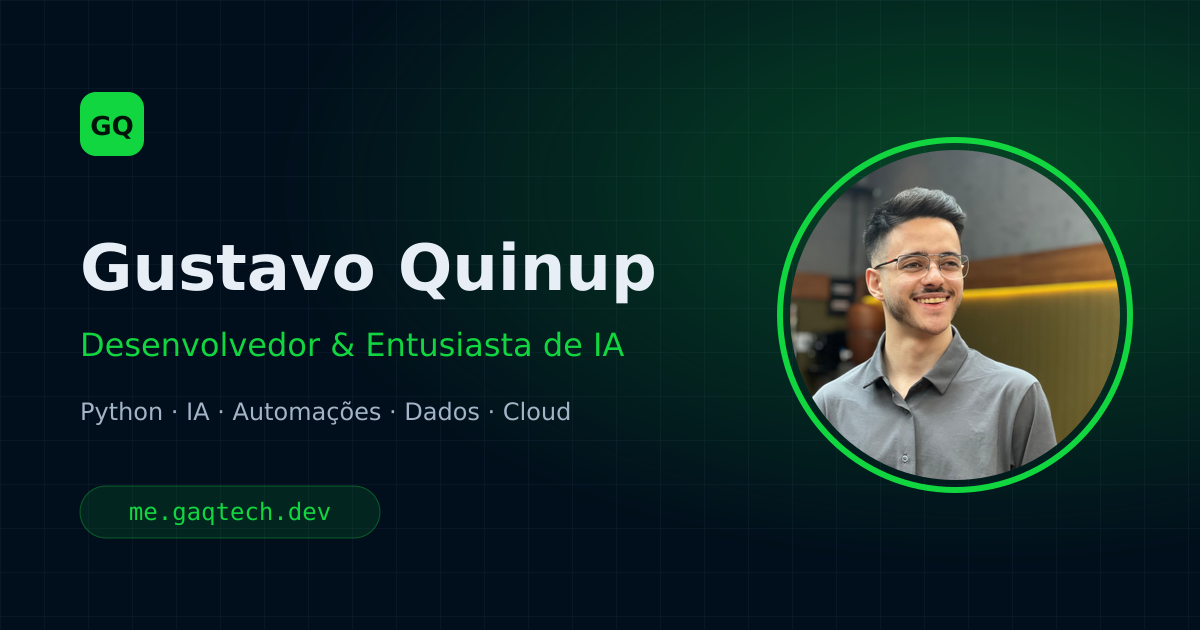
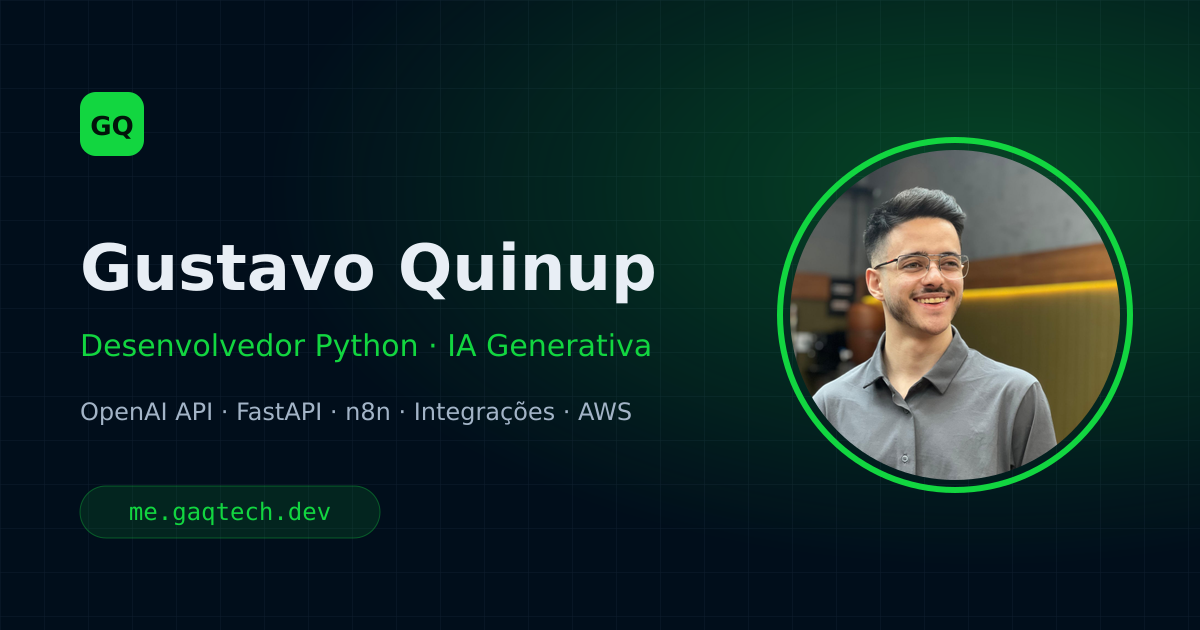
feat: dados do CV atualizado
- Rede Américas: site e início em out/2026
- 4 novas certificações (Docker, Claude 101, Python AI Backend, FastAPI)
- Inglês intermediário-avançado
- Título: Desenvolvedor Python, IA Generativa e Agentes (hero, SEO, OG)
- Novos grupos de habilidades: IA Generativa & Agentes, APIs & Integrações
- Novo projeto: Pipeline de Análise de Vagas com IA

Claude-Session: https://claude.ai/code/session_01L2nbZzeVfLgyARWc4fWRHN

Changed region(s): [[0.0617, 0.5127, 0.555, 0.573], [0.0617, 0.6333, 0.5242, 0.6937]]

diff --git a/src/data/profile.ts b/src/data/profile.ts
@@ -72,8 +72,9 @@ export interface Experience {
 export const experience: Experience[] = [
   {
     company: 'Rede Américas',
+    url: 'https://www.saudeamericas.com.br/',
     location: 'São Paulo, SP',
-    period: { pt: '2026 – atual', en: '2026 – present' },
+    period: { pt: 'Out 2026 – atual', en: 'Oct 2026 – present' },
     role: {
       pt: 'Atendimento Receptivo (contrato temporário via Luandre)',
       en: 'Patient Reception (temporary contract via Luandre)',
@@ -189,7 +190,46 @@ export const education: Education[] = [
   },
 ];
 
-export const certifications: { name: L; issuer: string; url: string; tone: 'azure' | 'db' | 'ml' }[] = [
+export type CertTone = 'azure' | 'db' | 'ml' | 'ai';
+export interface Certification {
+  name: L;
+  issuer: 'DIO' | 'Anthropic';
+  /** Mês/ano de conclusão (opcional) */
+  date?: L;
+  /** Carga horária (opcional) */
+  hours?: number;
+  /** Link do certificado (opcional) */
+  url?: string;
+  tone: CertTone;
+}
+
+/** Mais recentes primeiro */
+export const certifications: Certification[] = [
+  {
+    name: { pt: 'Formação Docker Fundamentals', en: 'Docker Fundamentals Track' },
+    issuer: 'DIO',
+    date: { pt: 'Ago 2026', en: 'Aug 2026' },
+    hours: 15,
+    tone: 'azure',
+  },
+  {
+    name: { pt: 'Claude 101 (Certificate of Completion)', en: 'Claude 101 (Certificate of Completion)' },
+    issuer: 'Anthropic',
+    date: { pt: 'Jun 2026', en: 'Jun 2026' },
+    tone: 'ai',
+  },
+  {
+    name: { pt: 'Vivo: Python AI Backend Developer', en: 'Vivo: Python AI Backend Developer' },
+    issuer: 'DIO',
+    date: { pt: 'Jun 2025', en: 'Jun 2025' },
+    tone: 'ml',
+  },
+  {
+    name: { pt: 'Desenvolvimento de APIs com FastAPI, Docker e TDD', en: 'API Development with FastAPI, Docker and TDD' },
+    issuer: 'DIO',
+    date: { pt: 'Jun 2024', en: 'Jun 2024' },
+    tone: 'db',
+  },
   { name: { pt: 'Azure AI', en: 'Azure AI' }, issuer: 'DIO', url: 'https://www.dio.me/certificate/0WKHA92I/share', tone: 'azure' },
   { name: { pt: 'Banco de Dados', en: 'Databases' }, issuer: 'DIO', url: 'https://www.dio.me/certificate/WE7ZH8DS/share', tone: 'db' },
   {
@@ -202,12 +242,33 @@ export const certifications: { name: L; issuer: string; url: string; tone: 'azur
 
 export type Tier = 'adv' | 'int' | 'bas';
 export interface Skill {
-  name: string;
-  /** Arquivo em /public/img/skills ou caminho absoluto */
-  icon: string;
+  /** Texto único ou { pt, en } quando o nome muda entre idiomas */
+  name: string | L;
+  /** Arquivo em /public/img/skills (sem .svg) ou caminho absoluto. Sem ícone, mostra um ícone genérico. */
+  icon?: string;
 }
 
 export const skillGroups: { title: L; tiers: Partial<Record<Tier, Skill[]>> }[] = [
+  {
+    title: { pt: 'IA Generativa & Agentes', en: 'Generative AI & Agents' },
+    tiers: {
+      adv: [
+        { name: 'OpenAI API', icon: '/img/logos/openai.svg' },
+        { name: 'Prompt Engineering' },
+        { name: { pt: 'JSON Schema (saídas estruturadas)', en: 'JSON Schema (structured outputs)' } },
+        { name: { pt: 'Assistentes e fluxos de IA', en: 'AI assistants and workflows' } },
+      ],
+      int: [{ name: 'LLMs' }, { name: 'LangChain' }],
+      bas: [{ name: 'MCP' }, { name: { pt: 'A2A (conceitual)', en: 'A2A (conceptual)' } }, { name: { pt: 'RAG (teórico)', en: 'RAG (theoretical)' } }],
+    },
+  },
+  {
+    title: { pt: 'APIs & Integrações', en: 'APIs & Integrations' },
+    tiers: {
+      adv: [{ name: 'FastAPI', icon: 'fastapi' }, { name: { pt: 'APIs REST', en: 'REST APIs' } }],
+      int: [{ name: 'Webhooks' }, { name: 'n8n', icon: 'n8n' }, { name: 'Evolution API' }],
+    },
+  },
   {
     title: { pt: 'Linguagens & Dados', en: 'Languages & Data' },
     tiers: {
@@ -232,14 +293,15 @@ export const skillGroups: { title: L; tiers: Partial<Record<Tier, Skill[]>> }[] 
     title: { pt: 'Tecnologias & Ferramentas', en: 'Technologies & Tools' },
     tiers: {
       adv: [
-        { name: 'Git', icon: 'git' },
-        { name: 'OpenAI', icon: '/img/logos/openai.svg' },
+        { name: 'Git / GitHub', icon: 'git' },
         { name: 'AWS', icon: 'amazonwebservices' },
-        { name: 'Linux', icon: 'linux' },
+        { name: 'Linux Server', icon: 'linux' },
       ],
       int: [
         { name: 'Docker', icon: 'docker' },
-        { name: 'n8n', icon: 'n8n' },
+        { name: 'Nginx', icon: 'nginx' },
+        { name: 'Systemd' },
+        { name: { pt: 'Redes e firewall', en: 'Networking and firewall' } },
         { name: 'Azure', icon: 'azure' },
         { name: 'Jupyter', icon: 'jupyter' },
       ],
@@ -249,8 +311,10 @@ export const skillGroups: { title: L; tiers: Partial<Record<Tier, Skill[]>> }[] 
   {
     title: { pt: 'Frameworks & Bibliotecas', en: 'Frameworks & Libraries' },
     tiers: {
-      adv: [{ name: 'FastAPI', icon: 'fastapi' }],
       int: [
+        { name: 'pandas', icon: 'pandas' },
+        { name: 'NumPy', icon: 'numpy' },
+        { name: 'OpenPyXL' },
         { name: 'React', icon: 'react' },
         { name: 'Next.js', icon: 'nextjs' },
         { name: 'Django', icon: 'django' },
@@ -267,7 +331,10 @@ export const methods = ['Scrum / Kanban', 'Notion', 'Trello', 'n8n', 'Make'];
 
 export const spokenLanguages: { name: L; level: L }[] = [
   { name: { pt: 'Português', en: 'Portuguese' }, level: { pt: 'Nativo', en: 'Native' } },
-  { name: { pt: 'Inglês', en: 'English' }, level: { pt: 'Intermediário', en: 'Intermediate' } },
+  { name: { pt: 'Inglês', en: 'English' }, level: { pt: 'Intermediário-avançado', en: 'Upper intermediate' } },
   { name: { pt: 'Espanhol', en: 'Spanish' }, level: { pt: 'Básico', en: 'Basic' } },
   { name: { pt: 'Francês', en: 'French' }, level: { pt: 'Básico', en: 'Basic' } },
 ];
+
+/** Resolve o nome de uma habilidade no idioma pedido. */
+export const skillName = (s: Skill, lang: Lang): string => (typeof s.name === 'string' ? s.name : s.name[lang]);

diff --git a/src/i18n/ui.ts b/src/i18n/ui.ts
@@ -8,9 +8,9 @@ export const defaultLang: Lang = 'pt';
 
 export const ui = {
   pt: {
-    'meta.title': 'Gustavo Quinup | Desenvolvedor & Entusiasta de IA',
+    'meta.title': 'Gustavo Quinup | Desenvolvedor Python, IA Generativa e Agentes',
     'meta.description':
-      'Portfólio de Gustavo Quinup, Engenheiro de Computação focado em Inteligência Artificial, automações, dados e computação em nuvem.',
+      'Portfólio de Gustavo Quinup, Desenvolvedor Python e estudante de Engenharia da Computação focado em IA generativa, agentes, integrações e automações.',
     'skip': 'Pular para o conteúdo',
     'nav.about': 'Sobre',
     'nav.projects': 'Projetos',
@@ -27,9 +27,9 @@ export const ui = {
     'hero.badge': 'Aberto a oportunidades',
     'hero.hello': 'Olá, eu sou',
     'hero.iam': 'Sou',
-    'hero.roles': ['Desenvolvedor', 'Engenheiro de Computação', 'Entusiasta de IA'],
+    'hero.roles': ['Desenvolvedor Python', 'Engenheiro de Computação', 'Dev de IA Generativa e Agentes'],
     'hero.tagline':
-      'Desenvolvo sistemas, automações e soluções com IA que resolvem problemas reais de operação, do backend em Python ao deploy em contêineres.',
+      'Desenvolvo assistentes e fluxos de IA generativa, agentes e integrações entre sistemas com Python, OpenAI API e FastAPI, do processamento de documentos ao deploy em produção.',
     'hero.cta.projects': 'Ver projetos',
     'hero.cta.contact': 'Fale comigo',
     'hero.stats.projects': 'projetos',
@@ -128,9 +128,9 @@ export const ui = {
     '404.home': 'Ir para o início',
   },
   en: {
-    'meta.title': 'Gustavo Quinup | Developer & AI Enthusiast',
+    'meta.title': 'Gustavo Quinup | Python Developer, Generative AI & Agents',
     'meta.description':
-      'Portfolio of Gustavo Quinup, Computer Engineer focused on Artificial Intelligence, automation, data and cloud computing.',
+      'Portfolio of Gustavo Quinup, Python Developer and Computer Engineering student focused on generative AI, agents, integrations and automation.',
     'skip': 'Skip to content',
     'nav.about': 'About',
     'nav.projects': 'Projects',
@@ -147,9 +147,9 @@ export const ui = {
     'hero.badge': 'Open to opportunities',
     'hero.hello': "Hi, I'm",
     'hero.iam': "I'm a",
-    'hero.roles': ['Developer', 'Computer Engineer', 'AI Enthusiast'],
+    'hero.roles': ['Python Developer', 'Computer Engineer', 'Generative AI & Agents Developer'],
     'hero.tagline':
-      'I build systems, automations and AI-powered solutions that solve real operational problems, from Python backends to containerized deployments.',
+      'I build generative AI assistants and workflows, agents and system integrations with Python, OpenAI API and FastAPI, from document processing to production deployment.',
     'hero.cta.projects': 'See projects',
     'hero.cta.contact': 'Get in touch',
     'hero.stats.projects': 'projects',

diff --git a/src/lib/markdown.ts b/src/lib/markdown.ts
@@ -1,6 +1,6 @@
 import type { Lang } from '../i18n/ui';
 import { useTranslations, projectUrl, homeUrl, markdownUrl } from '../i18n/utils';
-import { site, about, experience, education, certifications, skillGroups, methods, spokenLanguages } from '../data/profile';
+import { site, about, experience, education, certifications, skillGroups, methods, spokenLanguages, skillName } from '../data/profile';
 import { getProjects } from './projects';
 
 const abs = (path: string) => new URL(path, site.url).href;
@@ -79,7 +79,7 @@ export async function buildPortfolioMarkdown(lang: Lang): Promise<string> {
   for (const g of skillGroups) {
     const parts = (['adv', 'int', 'bas'] as const)
       .filter((tier) => g.tiers[tier])
-      .map((tier) => `${t(`skills.${tier}`)}: ${g.tiers[tier]!.map((s) => s.name).join(', ')}`);
+      .map((tier) => `${t(`skills.${tier}`)}: ${g.tiers[tier]!.map((s) => skillName(s, lang)).join(', ')}`);
     out.push(`- **${g.title[lang]}**: ${parts.join(' | ')}`);
   }
   out.push(`- **${t('skills.methods')}**: ${methods.join(', ')}`);
@@ -93,7 +93,9 @@ export async function buildPortfolioMarkdown(lang: Lang): Promise<string> {
   }
   out.push('');
   out.push(`### ${t('education.certs')}`);
-  certifications.forEach((c) => out.push(`- ${c.name[lang]} (${c.issuer}): ${c.url}`));
+  certifications.forEach((c) =>
+    out.push(`- ${c.name[lang]} (${[c.issuer, c.date?.[lang], c.hours ? `${c.hours}h` : null].filter(Boolean).join(', ')})${c.url ? `: ${c.url}` : ''}`),
+  );
   out.push('');
 
   out.push('---');
@@ -114,7 +116,7 @@ export async function buildLlmsTxt(): Promise<string> {
   return [
     `# ${site.name}`,
     '',
-    `> Computer Engineer and software developer from São Paulo, Brazil, focused on AI, automation, data and cloud. Portfolio available in Portuguese and English.`,
+    `> Python Developer and Computer Engineering student from São Paulo, Brazil, focused on generative AI, agents, integrations and automation. Portfolio available in Portuguese and English.`,
     '',
     'This site is a personal portfolio. The files below contain the full content in Markdown, generated from the same data as the website.',
     '',
